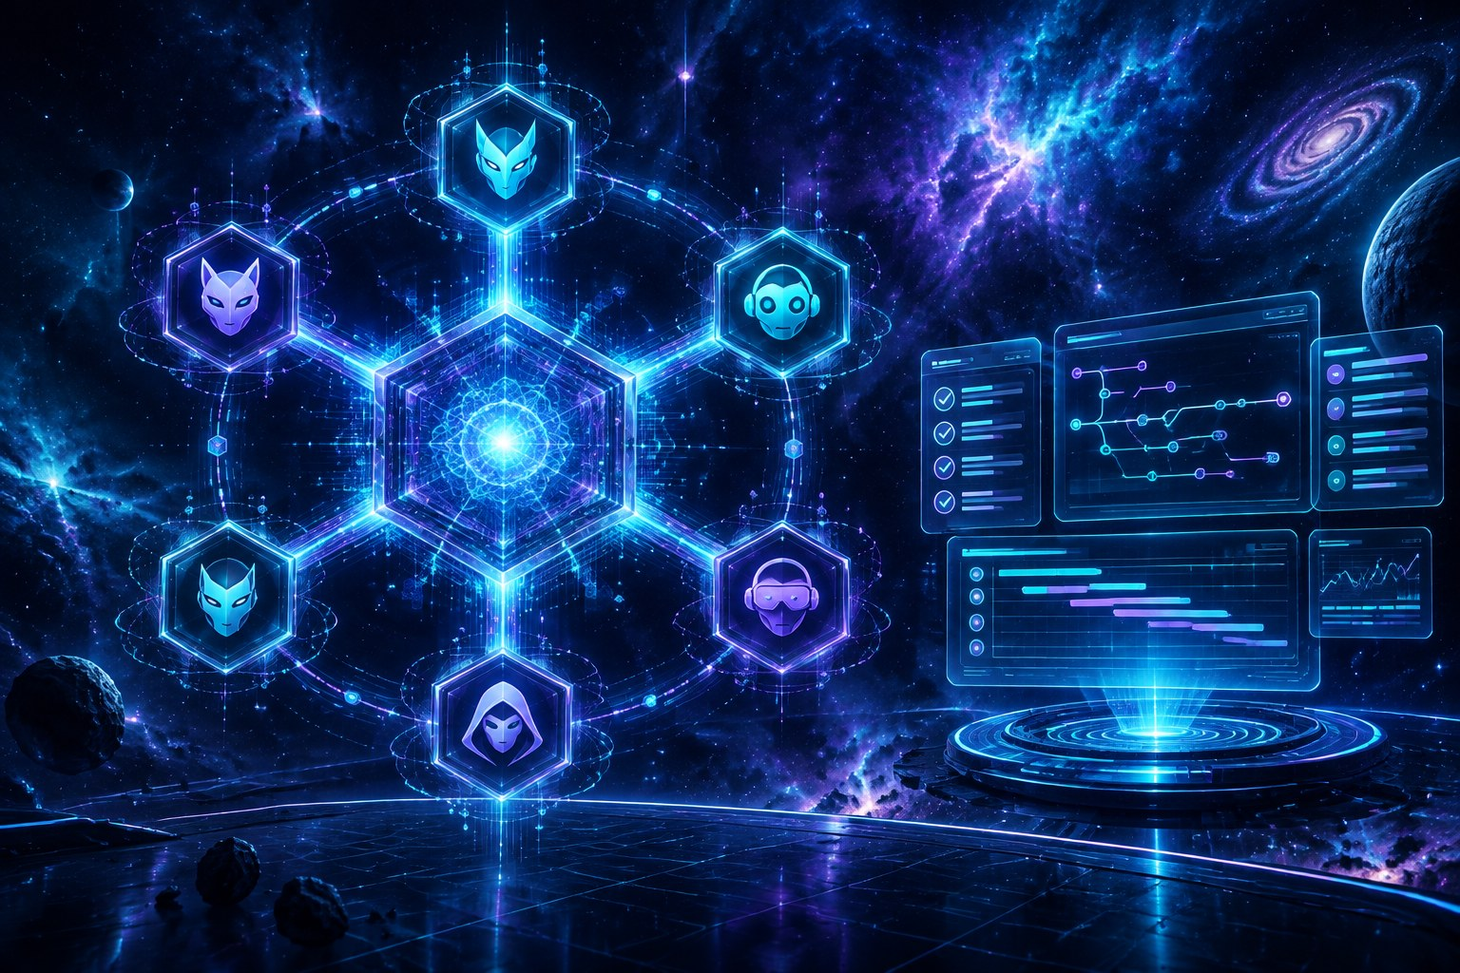
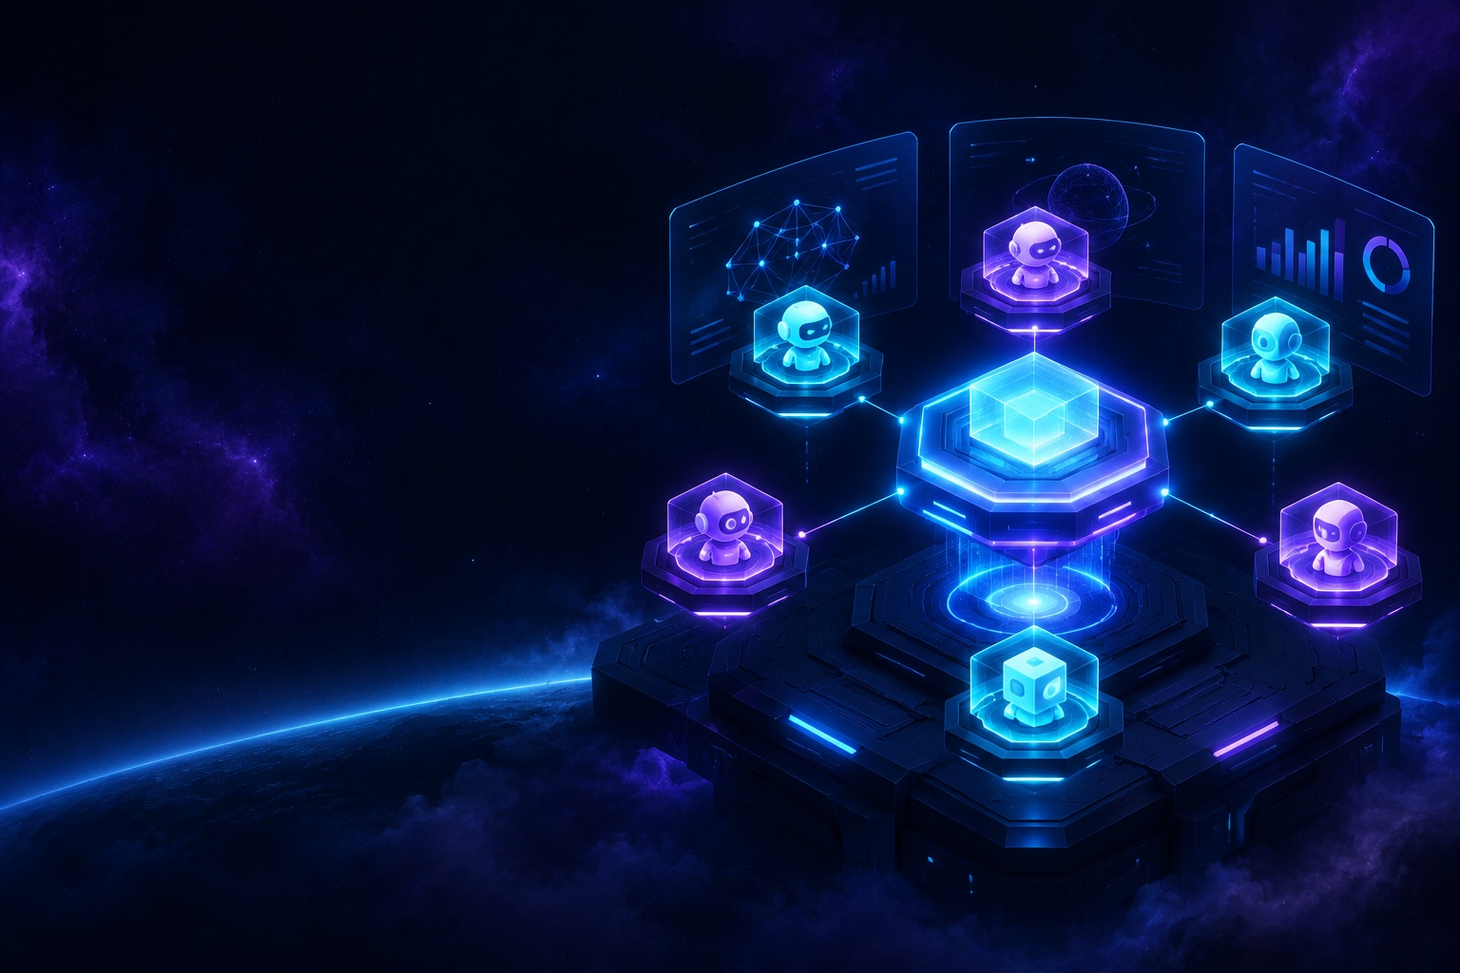
release v0.28.0: discipline-hardening + full artwork & docs refresh
- Merge unreleased v0.25.1/v0.25.2 work into the v0.28.0 entry:
  archive-landing self-check (LANDED: read-back proof), phase-marker
  exactly-one-path rule, install.py --ide dispatch, uninstall
  auto-detect, nested empty-dir cleanup
- README: four-shift discipline narrative (v0.22→v0.28), three new
  capability rows, "Verified discipline" section, Features re-badged,
  version footer v0.28.0
- Artwork fully redrawn: logo (cyan glass cursor in hexagon frame),
  banner (hexagonal command hub, AI 3-round vision-QC loop),
  architecture (hand-drawn dark-theme SVG->PNG, exact text)
- AGENTS-GUIDE upgrade SOP bumped to v0.28.0
- VERSION 0.28.0; P0 smoke 18/18 (dynamic VERSION<->CHANGELOG gate);
  unit suites 140 passed

diff --git a/CHANGELOG.md b/CHANGELOG.md
@@ -5,33 +5,34 @@ All notable changes to this project will be documented in this file.
 The format is based on [Keep a Changelog](https://keepachangelog.com/1.0.0/),
 and this project adheres to [Semantic Versioning](https://semver.org/spec/v2.0.0.html).
 
-## [0.25.2] - 2026-10-28
+## [0.28.0] - 2026-10-28
 
-### Fixed
-
-- **`install.py --ide` no longer silently ignored (S-4, from the v0.25.0 acceptance campaign)**: `install.py` had no argument parsing at all, so `--ide claude-code` (or any `--ide` value) was silently dropped — the Cursor form got installed and the script exited 0. `install.py` now parses arguments: `--ide {cursor,claude_code,trae_solo}` (default `cursor`, preserving the historical bare-invocation behaviour); `claude_code`/`trae_solo` dispatch to their dedicated entrypoints (`install_claude_code.py` / `install_trae_solo.py`) via `subprocess` with exit-code passthrough; an invalid value fails fast with argparse's usage error (exit code 2, the CLI convention — a typo must not silently install the wrong platform). `--yes` is accepted (no-op) for consistency with `uninstall.py` and existing CI invocations. Design decision (from the fix-round deliberation ledger): dispatch instead of merging the three platform installers into one file — the three forms differ too much (14 Cursor rules vs Claude Code skills vs TRAE AGENTS.md template) and the dedicated entrypoints remain the source of truth.
-- **`uninstall.py` no longer assumes Cursor when `--platform` is omitted (S-5)**: `--platform` previously defaulted to `cursor`, so a user who installed Claude Code and ran bare `uninstall.py --yes` got "Framework not installed" while the `.claude` tree remained. Now `--platform` defaults to auto-detect: exactly one installation → uninstalled automatically (with an "Auto-detected single installation" notice); multiple → hard error (exit 1) listing the installed platforms with per-platform `--platform` usage lines; none → "not installed on any platform" notice (exit 0). This matches the uninstaller convention measured across rustup / cargo / AWS CLI (never guess, never delete the wrong thing).
-- **Nested empty-dir cleanup after uninstall**: `.claude/skills/<skill>/` trees (recorded files inside nested dirs) previously survived recorded-file removal as empty directories. Uninstall now removes installer-created parent directories bottom-up when empty, scoped to the platform's own top dir (`\.cursor` / `.claude` / `.trae`); directories containing user files are never touched (empty-only rmdir). Verified: user-added `.claude/skills/my-user-skill/` survives, installer-owned skill trees vanish.
-
-### Changed
-
-- `README.md`: Quick start and platform table now lead with the `--ide` form (dedicated entrypoints still listed); uninstall auto-detect/multi-install behaviour documented; stale "current version v0.24.1" corrected to v0.25.1.
-- Acceptance harness (`product/test_p0_smoke.py`): P0-B5 version gate now asserts `VERSION == CHANGELOG head entry` instead of pinning a literal (root-fix of the S-2 pattern at the P0 layer — a release bump can no longer break the gate); new regression cases P0-A5..A10 cover S-4/S-5 (invalid `--ide` exit 2, dispatch artifacts, multi-install bare-uninstall error, clean `.claude` removal, single-install auto-detect, zero-install notice). P0 layer 18/18 green.
-
-## [0.25.1] - 2026-10-27
+A discipline-hardening release: the acceptance campaigns of v0.25.x measured where
+self-discipline still relied on trust, and this version closes every measured gap with
+machine-checked contracts. Also ships fully redrawn README artwork and the largest
+README refresh since v0.22.0.
 
 ### Added
 
-- **Phase-marker exactly-one-path rule (S-3, from P1-C1 0/3)**: the acceptance run measured a design gap in the Phase Markers wording — old text said "Do not type `[Phase N DONE]` manually … fall back to outputting the canonical format by hand", and in a permission-restricted sandbox (no Bash) the model chose a third, unlisted path: explaining the constraint without producing any marker. `crew_assistant.mdc` v3.4.0 / `writer_assistant.mdc` v4.2.0 / `discussion_assistant.mdc` v5.6.0 now pin the rule: the marker MUST exist at every join point — script-produced OR hand-typed canonical line; "explaining that the script is unavailable" without the marker line is an INVALID response. Re-run P1-C1 ×3 after the fix: 3/3 PASS (all responses hand-typed the markers, response archives carry them).
-- **Archive-landing self-check (S-1, from the v0.25.0 acceptance campaign)**: the acceptance suite (~45 `claude -p` runs + 18 script cases) measured a noise floor of 80% (4/5) on the write piece — the recurring failure mode is a response that *reports* a complete archive (gate line, ledger, convergence) while the file never lands on disk, because the Write tool was never actually invoked. Three-layer fix:
+- **Archive-landing self-check (S-1)**: the acceptance suite (~45 `claude -p` runs + 18 script cases) measured an 80% recurrence of the write-piece failure mode — a response that *reports* a complete archive (gate line, ledger, convergence) while the file never lands on disk, because the Write tool was never actually invoked. Three-layer fix:
   - `writer_assistant.mdc` v4.1.0 — new **Step 2.0c (MUST, before Final prose)**: re-read the archive from disk (not from the response), confirm existence + `WRITE-GATE:` first line + convergence line, then append a `LANDED: <filename> verified-by-read-back` proof line; naming discipline pinned (instructed path wins, deviations require a pointer file); chat claims of "已写入" are banned unless the check passed.
   - `discussion_assistant.mdc` v5.5.0 — read discipline gains the same **landing self-check** closing step (re-read `viewpoints.md` + `ledger.md` from disk, `LANDED:` proof in the ledger, instructed archive path wins over self-invented IDs). Kills the P1-B2/P2-B4 failure modes (SKIP trace or archive at a self-invented path).
   - `crew_assistant.mdc` v3.3.0 — long-document input clause references the landing self-check.
-  - `verify_mechanism.py` — new warning-level S1 check: PASS-path archives without a `LANDED:` proof line get `S1: no LANDED proof line…` (warning until the next release cycle proves the read-back discipline, then escalates to error). 3 new unit tests; suite 116 green.
+  - `verify_mechanism.py` — new warning-level S1 check: PASS-path archives without a `LANDED:` proof line get `S1: no LANDED proof line…` (warning until the next release cycle proves the read-back discipline, then escalates to error). 3 new unit tests.
+- **Phase-marker exactly-one-path rule (S-3, from P1-C1 0/3)**: the acceptance run measured a design gap in the Phase Markers wording — old text said "Do not type `[Phase N DONE]` manually … fall back to outputting the canonical format by hand", and in a permission-restricted sandbox (no Bash) the model chose a third, unlisted path: explaining the constraint without producing any marker. `crew_assistant.mdc` v3.4.0 / `writer_assistant.mdc` v4.2.0 / `discussion_assistant.mdc` v5.6.0 now pin the rule: the marker MUST exist at every join point — script-produced OR hand-typed canonical line; "explaining that the script is unavailable" without the marker line is an INVALID response. Re-run P1-C1 ×3 after the fix: 3/3 PASS.
+
+### Fixed
+
+- **`install.py --ide` no longer silently ignored (S-4)**: `install.py` had no argument parsing at all, so `--ide claude-code` (or any `--ide` value) was silently dropped — the Cursor form got installed and the script exited 0. `install.py` now parses arguments: `--ide {cursor,claude_code,trae_solo}` (default `cursor`, preserving the historical bare-invocation behaviour); `claude_code`/`trae_solo` dispatch to their dedicated entrypoints (`install_claude_code.py` / `install_trae_solo.py`) via `subprocess` with exit-code passthrough; an invalid value fails fast with argparse's usage error (exit code 2, the CLI convention — a typo must not silently install the wrong platform). `--yes` is accepted (no-op) for consistency with `uninstall.py` and existing CI invocations. Design decision (from the fix-round deliberation ledger): dispatch instead of merging the three platform installers into one file — the three forms differ too much (14 Cursor rules vs Claude Code skills vs TRAE AGENTS.md template) and the dedicated entrypoints remain the source of truth.
+- **`uninstall.py` no longer assumes Cursor when `--platform` is omitted (S-5)**: `--platform` previously defaulted to `cursor`, so a user who installed Claude Code and ran bare `uninstall.py --yes` got "Framework not installed" while the `.claude` tree remained. Now `--platform` defaults to auto-detect: exactly one installation → uninstalled automatically (with an "Auto-detected single installation" notice); multiple → hard error (exit 1) listing the installed platforms with per-platform `--platform` usage lines; none → "not installed on any platform" notice (exit 0). This matches the uninstaller convention measured across rustup / cargo / AWS CLI (never guess, never delete the wrong thing).
+- **Nested empty-dir cleanup after uninstall**: `.claude/skills/<skill>/` trees (recorded files inside nested dirs) previously survived recorded-file removal as empty directories. Uninstall now removes installer-created parent directories bottom-up when empty, scoped to the platform's own top dir (`.cursor` / `.claude` / `.trae`); directories containing user files are never touched (empty-only rmdir). Verified: user-added `.claude/skills/my-user-skill/` survives, installer-owned skill trees vanish.
 
 ### Changed
 
+- **README fully refreshed for the v0.25 → v0.28 discipline arc**: "A new era" now narrates the four-shift evolution (v0.22.0 frontier agent → v0.24.0 write gateway → v0.25.0 marker protocol v2 → v0.28.0 airtight discipline); the frontier-agent capability table gains three rows (landing self-check, marker protocol v2, unified `--ide` installer); new "Verified discipline: markers, ledgers, landing proof" section; Features list re-badged with per-capability version stamps; Architecture prose aligned with the new diagram; version footer bumped to v0.28.0.
+- **README artwork fully redrawn**: `logo.png` — luminous cyan glass cursor-arrow inside a graphite hexagon frame with three violet agent dots (semantics: cursor + team); `banner.jpg` — hexagonal command hub with six orbiting agent pods over a holographic mission-control panel, left third reserved for the title (AI-generated, gpt-image pipeline, 3-round generate + vision-QC selection loop); `architecture.png` — hand-drawn dark-theme SVG→PNG (1560×1046) replacing the light-theme raster: dual entry paths, the meeting room with all six mask chips, supervised violet fan-out with the verify-and-merge return path, write gateway and `ai_workspace/` panels, machine-checked-contracts strip — exact text, brand-consistent cyan/violet palette.
 - `commands.yaml`: writer command v1.5.0 (HARD Step 2.0c) and discuss command v6.5.0 (landing self-check in `long_document_discipline`); 34 artifacts regenerated, zero drift.
+- Acceptance harness (`product/test_p0_smoke.py`): P0-B5 version gate now asserts `VERSION == CHANGELOG head entry` instead of pinning a literal (root-fix of the S-2 pattern at the P0 layer — a release bump can no longer break the gate); new regression cases P0-A5..A10 cover S-4/S-5 (invalid `--ide` exit 2, dispatch artifacts, multi-install bare-uninstall error, clean `.claude` removal, single-install auto-detect, zero-install notice). P0 layer 18/18 green.
 
 ## [0.25.0] - 2026-10-27
 

diff --git a/README.md b/README.md
@@ -10,7 +10,7 @@
 </p>
 
 <p align="center">
-  <img src="banner.jpg" alt="cursor-agent-team — hexagon core, orbiting mask pods, holographic mission control" width="760">
+  <img src="banner.jpg" alt="cursor-agent-team — hexagonal command hub, orbiting agent pods, holographic mission control" width="760">
 </p>
 
 <p align="center">
@@ -24,9 +24,13 @@
 cursor-agent-team (CAT) began as a set of slash commands that let one AI assistant wear
 different role masks inside a single conversation. With **v0.22.0** the center of gravity
 shifted: **the primary user is no longer the human typing commands — it is the frontier
-agent itself.** With **v0.24.0** the next shift lands: the agent doesn't just wear masks —
-**every state write passes through a script-enforced gateway, and every wrap-up follows a
-machine-checked closing protocol.**
+agent itself.** With **v0.24.0** the next shift landed: every state write passes through a
+script-enforced gateway, and every wrap-up follows a machine-checked closing protocol.
+With **v0.25.0** self-discipline became verifiable: mechanism markers turn "I read the
+document carefully" and "I wrote with viewpoint discipline" into archives a script can
+audit — gates, ledgers, convergence lines. With **v0.28.0** the discipline is airtight:
+archives must prove they landed on disk (`LANDED:` read-back proof), phase markers have
+exactly one valid path, and the installer finally honors `--ide` for all three platforms.
 
 Modern frontier models enter a project cold, read the docs, and self-constrain. For them
 CAT is not a command palette but an **operating discipline**: where the masks live, when
@@ -54,16 +58,19 @@ That single instruction unlocks the full architecture:
 
 | Capability | Entry point | What the agent gains |
 |------------|-------------|---------------------|
-| **Write gateway** (new in v0.24.0) | `_scripts/cat_write.py` | All state writes go through one script: global flock queue, atomic landing, journaled ops — the model never edits state files by hand |
-| **Operation skills** (new in v0.24.0) | `writes` · `closing` · `doctor` · `dispatch` | HOW-to-act skills, orthogonal to masks: how to write state, how to wrap up, how to health-check, how to dispatch |
-| **Closing protocol** (new in v0.24.0) | `_scripts/closing_protocol.py` | One command, five steps — tree verify, response verify, wrap-up note, snapshot, commit — stop at first failure |
-| **Machine-checked contracts** | `_scripts/` | Phase markers, `verify_response.py` self-verification, topic-tree validator, scratchpad & leak guards |
+| **Landing self-check** (new in v0.28.0) | archive `LANDED:` proof line | The agent re-reads its archive from disk before declaring done — a response that *claims* a file exists without the read-back proof is an invalid response; chat claims of "written" are banned |
+| **Marker protocol v2** (new in v0.25.0) | `WRITE-GATE:` / `READ-GATE:` + ledgers | Machine-checkable mechanism markers: viewpoint×round ledgers, convergence lines (`CONVERGED: R<N>`), `verify_mechanism.py` audits the archive structure — verified discipline, not claimed discipline |
+| **Unified `--ide` installer** (fixed in v0.28.0) | `install.py --ide claude_code\|trae_solo` | One entry point, three platforms; invalid values fail fast (exit 2) instead of silently installing Cursor |
+| **Write gateway** (since v0.24.0) | `_scripts/cat_write.py` | All state writes go through one script: global flock queue, atomic landing, journaled ops — the model never edits state files by hand |
+| **Operation skills** (since v0.24.0) | `writes` · `closing` · `doctor` · `dispatch` | HOW-to-act skills, orthogonal to masks: how to write state, how to wrap up, how to health-check, how to dispatch |
+| **Closing protocol** (since v0.24.0) | `_scripts/closing_protocol.py` | One command, five steps — tree verify, response verify, wrap-up note, snapshot, commit — stop at first failure |
+| **Machine-checked contracts** | `_scripts/` | Phase markers (exactly-one-path rule), `verify_response.py` self-verification, `verify_mechanism.py` archive audits, topic-tree validator, scratchpad & leak guards |
 | **Installable mask skills** (since v0.22.0) | `_skills/` → `.claude/skills/` / `.trae/skills/` | The six masks plus a master router, auto-discovered by skill-aware hosts every turn; agent self-invokes CAT |
 | **Self-assembled masks** | [`AGENTS-GUIDE.md`](AGENTS-GUIDE.md) | Picks any of the six personas cold — no slash commands, no injection; includes a "which mask when" decision list |
 | **Sub-agent dispatch** | [`SUBAGENT-DISPATCH.md`](SUBAGENT-DISPATCH.md) | Fans out mid-tier sub-agents with structured prompts, mask-based constraints, trust-but-verify acceptance |
 | **Externalized cognition** | `ai_workspace/` | Durable topic tree, plans, notes, scratchpad — working memory beyond the context window |
 
-### The write gateway: discipline by construction (new in v0.24.0)
+### The write gateway: discipline by construction (since v0.24.0)
 
 Prompts constrain softly; scripts constrain hard. The gateway moves every state mutation
 behind one executable door:
@@ -76,6 +83,25 @@ behind one executable door:
 Pair it with the four **operation skills** and the agent gets a complete HOW-layer:
 `/cat-writes` for state writes, `/cat-closing` for the five-step wrap-up,
 `/cat-doctor` for deployment health checks, `/cat-dispatch` for sub-agent discipline.
+
+### Verified discipline: markers, ledgers, landing proof (v0.25.0 → v0.28.0)
+
+Soft instructions say "be disciplined"; CAT's marker protocol makes discipline auditable:
+
+- **`WRITE-GATE:` / `READ-GATE:`** — the writer opens every task by declaring whether
+  viewpoint-round deliberation applies, and traces both paths. Skipping without a traced
+  reason is an invalid archive.
+- **Increment ledgers** — viewpoint×round entries (`[轮N·Vi]`) for writing, source-anchored
+  two-layer scans for long-document reading; every round must show increment or explicitly
+  record none.
+- **Convergence lines** — `CONVERGED: R<N>` (N ≥ 2) or `BUDGET: R<N>(reason)`; a
+  single-round stop is banned. `verify_mechanism.py` machine-checks gate, ledger depth,
+  and convergence.
+- **`LANDED:` read-back proof** — before declaring an archive complete, the agent re-reads
+  it *from disk* (not from its own response) and appends a proof line. This kills the
+  classic failure mode — a response that reports a complete archive while the file never
+  landed because the Write tool was never invoked — which acceptance runs measured at an
+  80% recurrence rate before the fix.
 
 ### Skills: the per-turn handle
 
@@ -96,12 +122,14 @@ the wrong repo degrades to a one-line notice instead of misfiring.
   <img src="architecture.png" alt="cursor-agent-team architecture — dual entry paths, shared-context meeting room, supervised sub-agent fan-out" width="780">
 </p>
 
-**Two ways in, one meeting room.** A frontier agent (primary, blue) and a human operator
+**Two ways in, one meeting room.** A frontier agent (primary, cyan) and a human operator
 (secondary, gray dashed) reach the same place: one model in one shared conversation wearing
 role masks. When a plan calls for parallel work, the meeting room fans out read-only
-sub-agents, verifies their structured returns, and merges only the summaries — the
-shared-context core never fragments. Everything lands in `ai_workspace/` through the
-write gateway, guarded by machine-checked contracts that are always in effect.
+sub-agents (violet), verifies their structured returns, and merges only the summaries —
+the shared-context core never fragments. Everything lands in `ai_workspace/` through the
+write gateway (global flock, atomic landing, JSONL journal), above a floor of
+machine-checked contracts that are always in effect: phase markers, response
+self-verification, mechanism-ledger audits, leak guards.
 
 ---
 
@@ -159,18 +187,24 @@ CAT keeps one model in one shared conversation and switches role masks instead. 
 from planning to execution to prompt engineering loses nothing, because everyone in the
 "meeting room" was there for the whole discussion. Parallelism is added only where it is
 safe: supervised, read-only sub-agents that return structured summaries for verification.
-And since v0.24.0 the meeting room has a bouncer: the write gateway guarantees every state
-mutation is queued, atomic, and journaled.
+Since v0.24.0 the meeting room has a bouncer — the write gateway guarantees every state
+mutation is queued, atomic, and journaled. Since v0.25.0 the room takes minutes: mechanism
+ledgers and convergence lines make the deliberation itself auditable, and since v0.28.0
+every archive must prove it landed on disk before anyone calls it done.
 
 ---
 
 ## Features
 
-- **Script-enforced write gateway** (new in v0.24.0) — global flock, atomic landing, JSONL journal; the model never edits state files directly
-- **Operation skills** (new in v0.24.0) — `writes` / `closing` / `doctor` / `dispatch`: the HOW-layer, orthogonal to the six role masks
-- **One-command closing protocol** (new in v0.24.0) — tree → verify → note → snapshot → commit, stop at first failure
-- **Deployment doctor** (new in v0.24.0) — form / version / ignore-policy / orphan checks, `--fleet` for multi-host audits
-- **Whitelist state tracking** (new in v0.24.0) — state files tracked by default, volatile zones excluded; hosts override via root `.gitignore`
+- **Archive landing self-check** (new in v0.28.0) — `LANDED:` read-back proof: re-read the archive from disk before declaring done; claimed-but-never-written archives are invalid
+- **Marker protocol v2** (new in v0.25.0) — `WRITE-GATE:` / `READ-GATE:`, viewpoint×round increment ledgers, convergence lines, `verify_mechanism.py` closed-loop audit
+- **Phase-marker exactly-one-path rule** (since v0.25.1) — the marker must exist at every join point: script-produced OR hand-typed canonical line; explaining the constraint without the marker is invalid
+- **Unified `--ide` installer + auto-detect uninstall** (v0.28.0) — `install.py --ide claude_code|trae_solo` dispatches correctly and fails fast on typos; bare `uninstall.py` auto-detects the single installation and errors on ambiguity
+- **Script-enforced write gateway** (since v0.24.0) — global flock, atomic landing, JSONL journal; the model never edits state files directly
+- **Operation skills** (since v0.24.0) — `writes` / `closing` / `doctor` / `dispatch`: the HOW-layer, orthogonal to the six role masks
+- **One-command closing protocol** (since v0.24.0) — tree → verify → note → snapshot → commit, stop at first failure
+- **Deployment doctor** (since v0.24.0) — form / version / ignore-policy / orphan checks, `--fleet` for multi-host audits
+- **Whitelist state tracking** (since v0.24.0) — state files tracked by default, volatile zones excluded; hosts override via root `.gitignore`
 - **Installable frontier-agent skills** (since v0.22.0) — the six masks plus a master routing skill as host-agnostic SKILL.md packages
 - **Frontier-agent self-assembly** — `AGENTS-GUIDE.md`: advanced agents enter cold, pick a role mask themselves (officially supported since v0.20.0)
 - **Supervised sub-agent dispatch** — `SUBAGENT-DISPATCH.md`: orchestrator-grade fan-out with trust-but-verify acceptance
@@ -241,7 +275,7 @@ remains unless `--remove-submodule` is passed. See
 
 ## Version
 
-Current version: **v0.25.1** — see [CHANGELOG.md](CHANGELOG.md).
+Current version: **v0.28.0** — see [CHANGELOG.md](CHANGELOG.md).
 
 ## License
 

diff --git a/AGENTS-GUIDE.md b/AGENTS-GUIDE.md
@@ -174,9 +174,9 @@ surviving since January 2026 (FR-0021).
 
 ### 5.4 Upgrade SOP (v0.23.0+)
 
-1. `cd <host>/cursor-agent-team && git fetch --tags && git log --oneline HEAD..v0.24.0` — read what changed (CHANGELOG first); plain-dir hosts without a git checkout: compare VERSION files
+1. `cd <host>/cursor-agent-team && git fetch --tags && git log --oneline HEAD..v0.28.0` — read what changed (CHANGELOG first); plain-dir hosts without a git checkout: compare VERSION files
 2. Re-run the cold-start self-check (§5.2) — confirm the shape is intact before touching anything
-3. Update the copy: plain-dir hosts re-run the installer (idempotent, never deletes `ai_workspace/`; v0.24.0+ warns before overwriting locally-edited owned files); submodule hosts `git checkout v0.24.0` in the submodule and bump the pointer
+3. Update the copy: plain-dir hosts re-run the installer (idempotent, never deletes `ai_workspace/`; v0.24.0+ warns before overwriting locally-edited owned files); submodule hosts `git checkout v0.28.0` in the submodule and bump the pointer
 4. Re-run `python3 _scripts/build_commands.py --check` (if harness artifacts live in the host) and the test suite once
 5. Append a topic-tree round noting the version bump (validator), and commit with `commit_workspace.py` / `add -f`
 6. If the host's tree predates the FR-0011 template skeleton, backfill missing structure in the same round — don't defer
